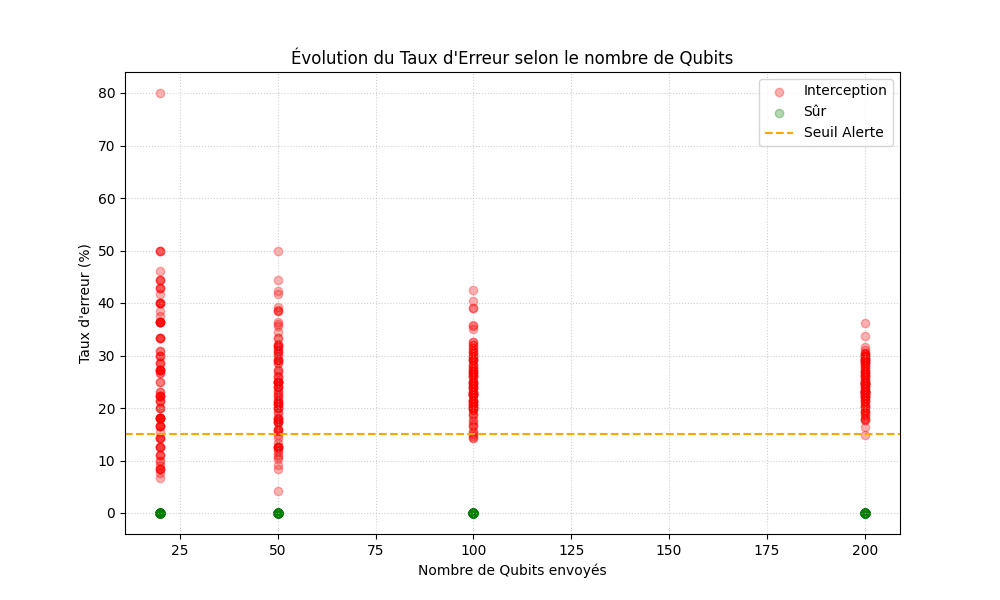
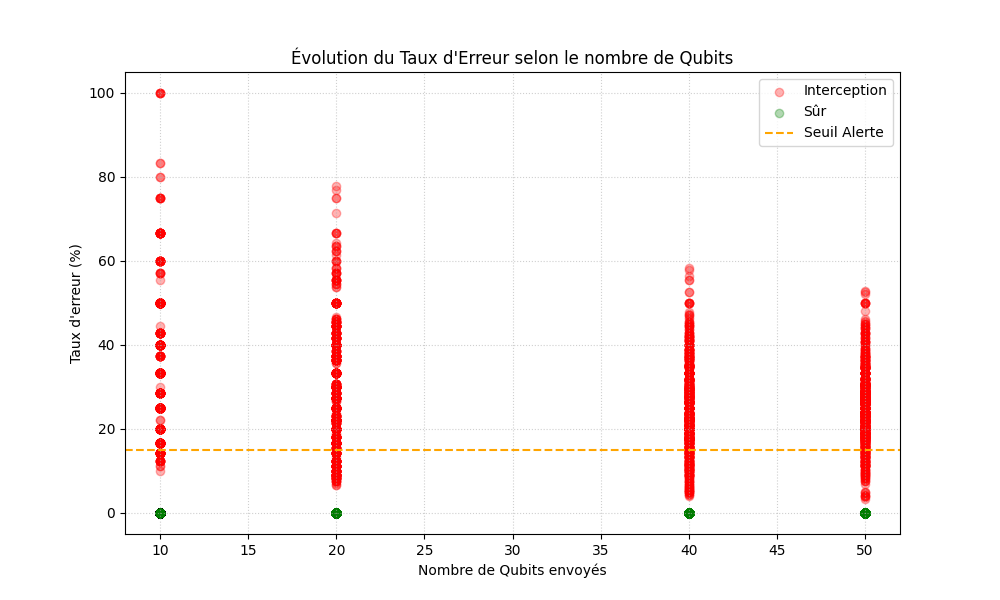
Update BB84 benchmark parameters and results CSV

diff --git a/src/bb84_bench.py b/src/bb84_bench.py
@@ -24,15 +24,15 @@ def simulate_bb84(n, interception=False):
     return (errors / common_bases * 100) if common_bases > 0 else 0
 
 print("Lancement du Mega Benchmark BB84...")
-n_tests = [20, 50, 100, 200]
+n_tests = [10, 20, 40, 50]
 final_results = []
 
 plt.figure(figsize=(10, 6))
 
 for n in n_tests:
     # On lance 100 fois pour chaque n
-    sans_eve = [simulate_bb84(n, False) for _ in range(100)]
-    avec_eve = [simulate_bb84(n, True) for _ in range(100)]
+    sans_eve = [simulate_bb84(n, False) for _ in range(1000)]
+    avec_eve = [simulate_bb84(n, True) for _ in range(1000)]
     
     # On ajoute au tableau CSV
     final_results.append(["BB84", f"{n} Qubits", "Moyenne (Sans Eve)", np.mean(sans_eve), "%"])
@@ -40,8 +40,8 @@ for n in n_tests:
     final_results.append(["BB84", f"{n} Qubits", "Max (Avec Eve)", np.max(avec_eve), "%"])
 
     # On prépare le graphique
-    plt.scatter([n]*100, avec_eve, color='red', alpha=0.3, label='Interception' if n==20 else "")
-    plt.scatter([n]*100, sans_eve, color='green', alpha=0.3, label='Sûr' if n==20 else "")
+    plt.scatter([n]*1000, avec_eve, color='red', alpha=0.3, label='Interception' if n==20 else "")
+    plt.scatter([n]*1000, sans_eve, color='green', alpha=0.3, label='Sûr' if n==20 else "")
 
 # Sauvegarde CSV
 df = pd.DataFrame(final_results, columns=["Algo", "Config", "Metric", "Value", "Unit"])
@@ -59,3 +59,5 @@ plt.savefig("results/graphique_bb84_mega.png")
 print("Benchmark fini !  'results_bb84_complet.csv' et 'graphique_bb84_mega.png' dans le dossier 'results'.")
 
 # legende anglais + variance
+
+#faire autre algo qui fait le temps en fonction taille matrice
